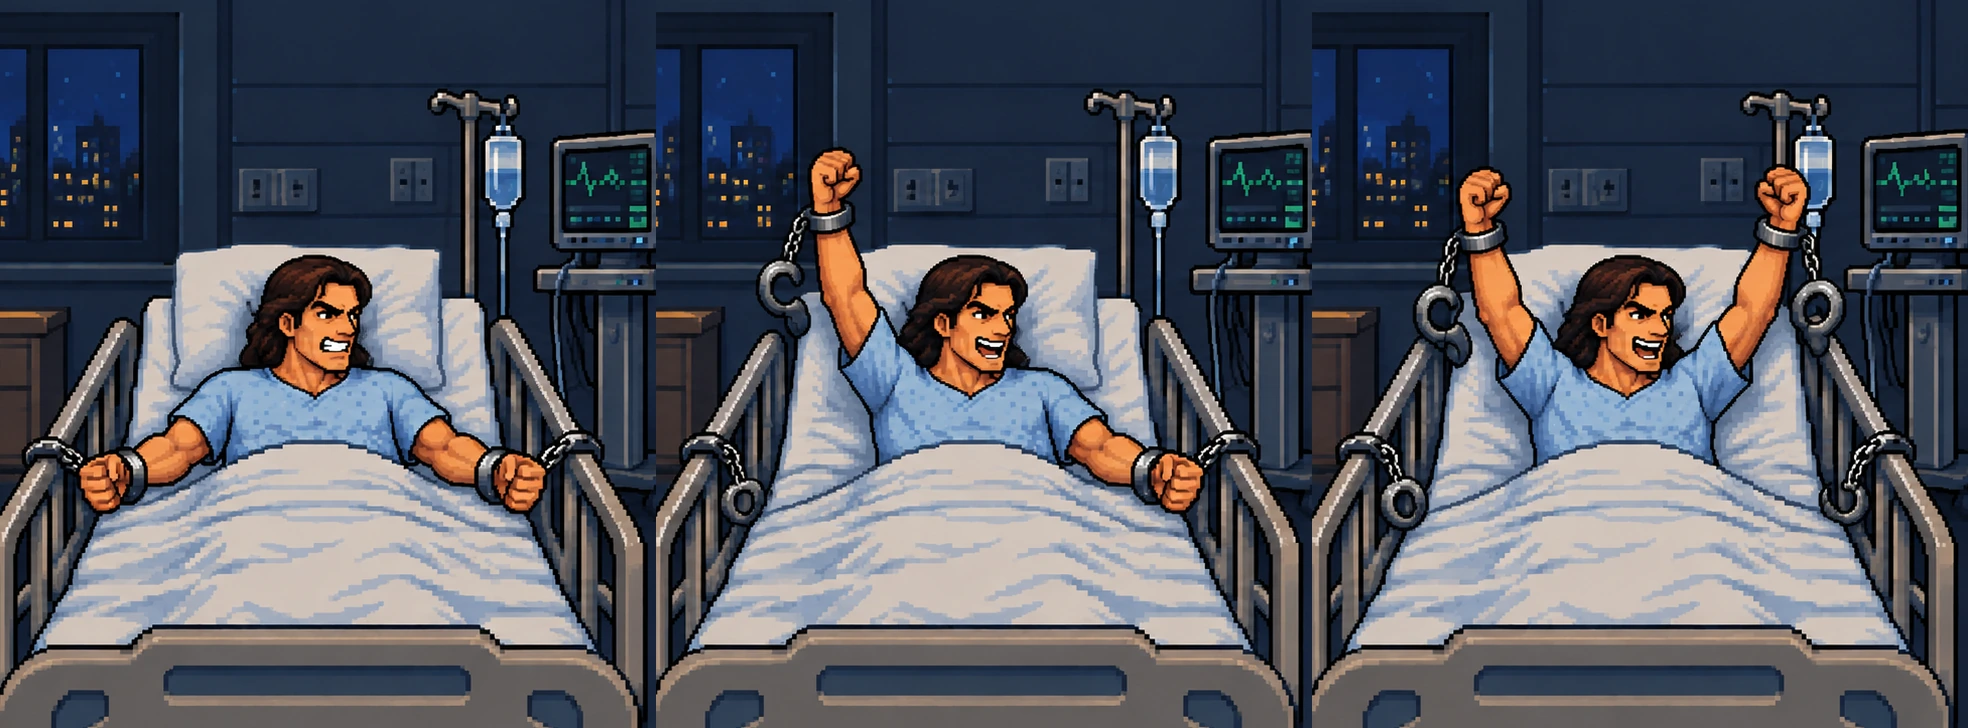
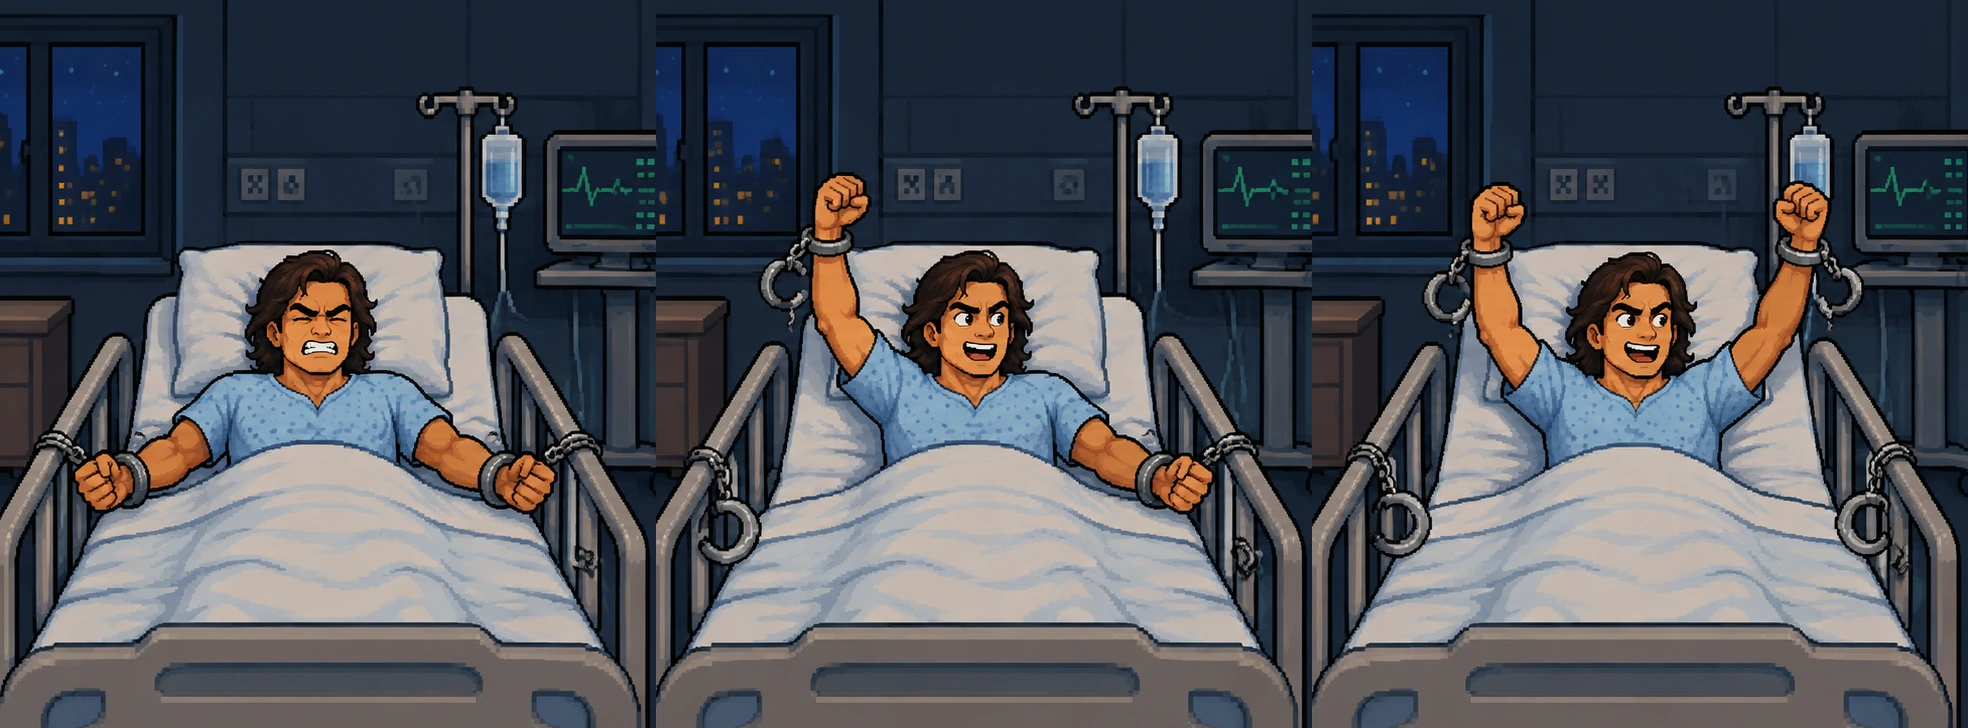
Hospital: new wide shots for the break-free
Swap in the redrawn set of three wide shots. The previous set is kept
as hosp_wide_v1.webp.

Claude-Session: https://claude.ai/code/session_01KQFUV1UsrCb4rqhKLdmdma

diff --git a/index.html b/index.html
@@ -5,7 +5,7 @@
 <meta name="viewport" content="width=device-width, initial-scale=1, viewport-fit=cover">
 <title>The Franchise</title>
 <link rel="stylesheet" href="https://fonts.googleapis.com/css2?family=Press+Start+2P&family=VT323&display=swap">
-<link rel="stylesheet" href="css/style.css?v=20261005222648">
+<link rel="stylesheet" href="css/style.css?v=20261005224038">
 </head>
 <body>
 <div class="cab">
@@ -34,7 +34,7 @@
       <img class="art" src="assets/img/title2.webp" alt="The Franchise">
       <span id="titlehint">TAP TO START</span>
     </button>
-    <span id="ver">BUILD 1005-2226</span>
+    <span id="ver">BUILD 1005-2240</span>
     <label id="lvlpick" for="lvlsel">START AT
       <select id="lvlsel">
         <option value="alley">1. ALLEY RUN</option>
@@ -52,17 +52,17 @@
     <button class="pad next" id="padR" type="button"><b>R</b><span>RIGHT FOOT</span></button>
   </div>
 </div>
-<script src="js/core.js?v=20261005222648"></script>
-<script src="js/state.js?v=20261005222648"></script>
-<script src="js/audio.js?v=20261005222648"></script>
-<script src="js/scenery.js?v=20261005222648"></script>
-<script src="js/characters.js?v=20261005222648"></script>
-<script src="js/input.js?v=20261005222648"></script>
-<script src="js/scene-alley.js?v=20261005222648"></script>
-<script src="js/scene-dream.js?v=20261005222648"></script>
-<script src="js/scene-hospital.js?v=20261005222648"></script>
-<script src="js/scene-hallway.js?v=20261005222648"></script>
-<script src="js/render.js?v=20261005222648"></script>
-<script src="js/main.js?v=20261005222648"></script>
+<script src="js/core.js?v=20261005224038"></script>
+<script src="js/state.js?v=20261005224038"></script>
+<script src="js/audio.js?v=20261005224038"></script>
+<script src="js/scenery.js?v=20261005224038"></script>
+<script src="js/characters.js?v=20261005224038"></script>
+<script src="js/input.js?v=20261005224038"></script>
+<script src="js/scene-alley.js?v=20261005224038"></script>
+<script src="js/scene-dream.js?v=20261005224038"></script>
+<script src="js/scene-hospital.js?v=20261005224038"></script>
+<script src="js/scene-hallway.js?v=20261005224038"></script>
+<script src="js/render.js?v=20261005224038"></script>
+<script src="js/main.js?v=20261005224038"></script>
 </body>
 </html>

diff --git a/README.md b/README.md
@@ -58,5 +58,6 @@ Images are in `assets/img`, audio in `assets/audio`. Sprite sheets are single ro
 | `sec1.webp` to `sec5.webp`, `sky.webp`, `street.webp` | Alley walls, skyline, street |
 | `stands.png` | Stadium backdrop |
 | `hosp_faces.webp`, `hosp_wide.webp` | Hospital: five close-up face panels, and three wide shots of the bed (cuffed, left free, both free) |
+| `hosp_wide_v1.webp` | The earlier set of wide shots, kept for reference and not used by the game |
 | `title2.webp`, `portrait.png` | Title art and HUD portrait |
 | `title.mp3`, `game.mp3`, `hospital.mp3` | Title music, gameplay music and the hospital voice track |
